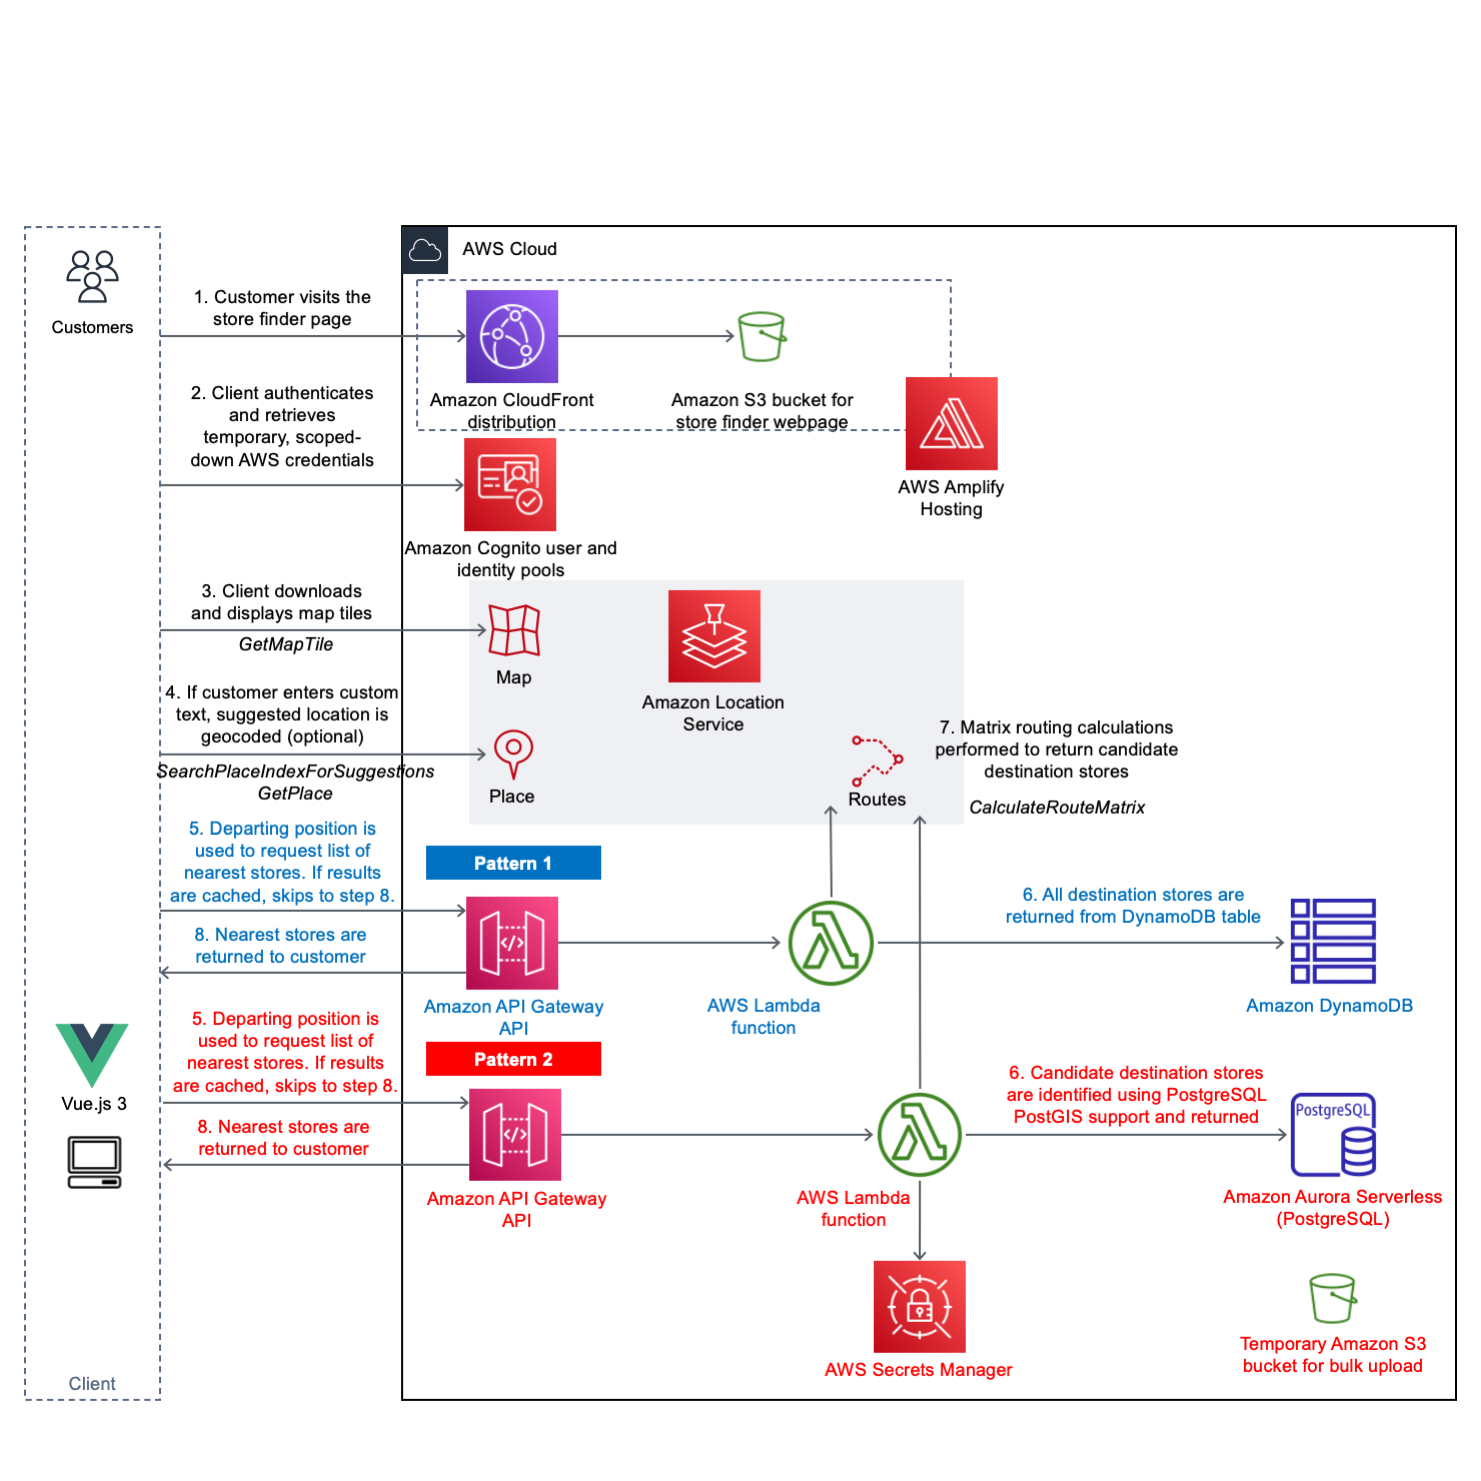
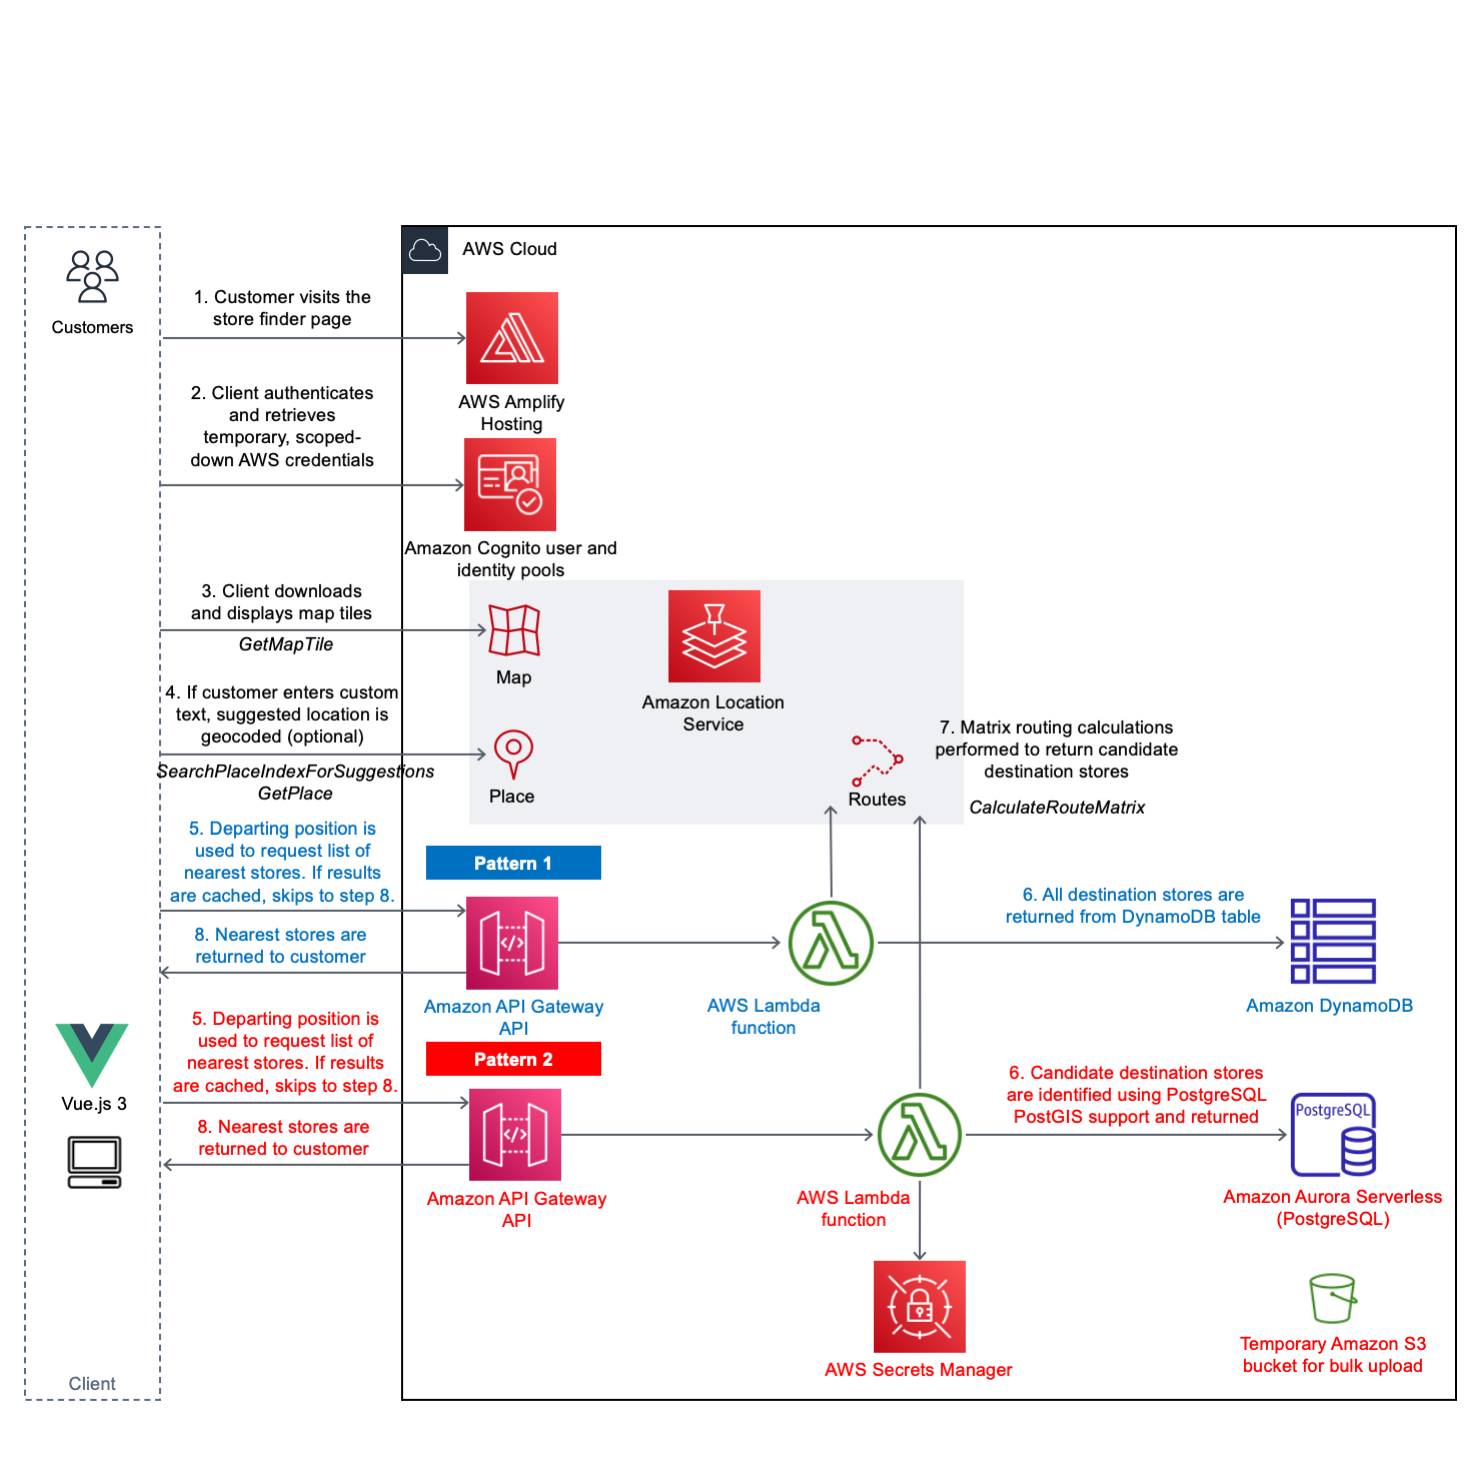
Moved front-end hosting over to Amplify Hosting.

Changed region(s): [[0.4659, 0.1864, 0.6833, 0.3727], [0.2795, 0.1864, 0.4038, 0.3106]]

diff --git a/README.md b/README.md
@@ -43,7 +43,7 @@ You are now ready to deploy the AWS SAM templates.
 
 ### Store Finder - Core
 
-The "Store Finder - Core" AWS SAM template will deploy the shared infrastructure resources required by both patterns, including the Amazon S3 bucket and Amazon CloudFront distribution for front-end hosting, Amazon Location Service map, place index and route calculator resources, and an Amazon Cognito user pool. 
+The "Store Finder - Core" AWS SAM template will deploy the shared infrastructure resources required by both patterns, namely the Amazon Location Service map, place index and route calculator resources, and Amazon Cognito user and identity pools. 
 
 1. Navigate to the `sam/core` directory on your local machine. Run `sam build` to build the application ready for deployment. Confirm that the `Build Succeeded` message is shown before continuing. 
 ```
